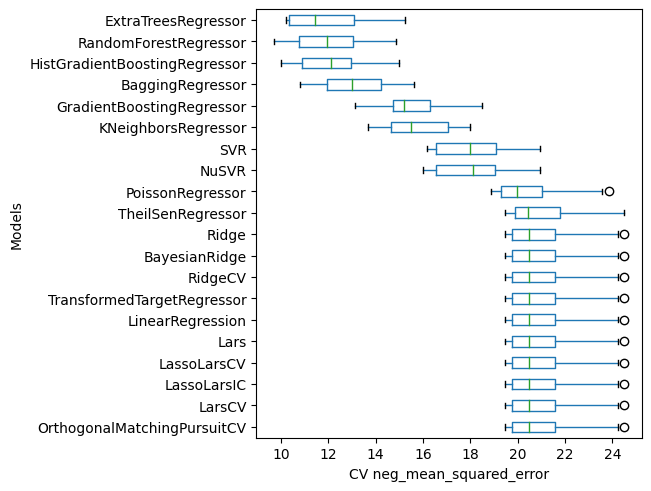
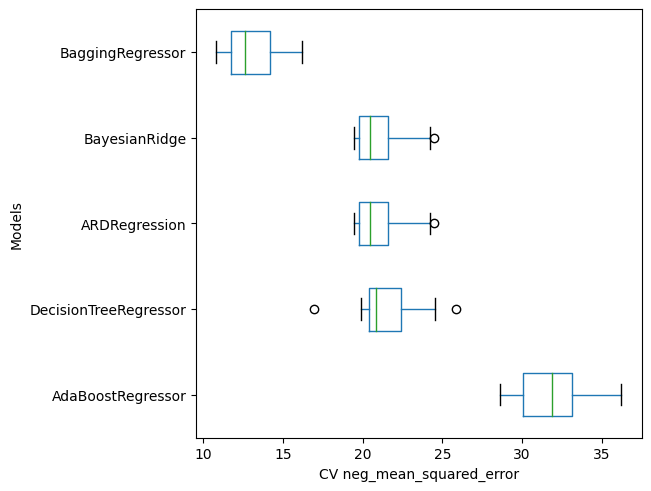
Progress 5:50p 11/10/22

diff --git a/AutoML/ScikitLearn/Sim_v5/v5_utils.py b/AutoML/ScikitLearn/Sim_v5/v5_utils.py
@@ -10,32 +10,33 @@ from sklearn import metrics
 from sklearn.utils import all_estimators
 import warnings
 warnings.filterwarnings('ignore')
+from inspect import signature, _empty
 
 def get_all_regs() -> list:
     """
     This function imports all sklearn regression estimators. The function will filter all out all regressors
-    that perform poorly or take additional parameters. It will return a list of all
-    viable regressor classes and a list of the names of all the viable regressor classes. 
-    
+    that take additional parameters. It will return a list of all viable regressor classes and a list of the 
+    names of all the viable regressor classes. 
     """
     estimators = all_estimators(type_filter='regressor')
-    forbidden_estimators = [
-        "DummyRegressor", "GaussianProcessRegressor", "KernelRidge", 
-        "QuantileRegressor", "SGDRegressor", 
-        "MultiOutputRegressor", "RegressorChain",
-        "StackingRegressor", "VotingRegressor"
-        ]
     all_regs = []
     all_reg_names = []
+
     for name, RegressorClass in estimators:
-        if name not in forbidden_estimators:
-                print('Appending', name)
-                reg = RegressorClass()
-                all_regs.append(reg)
-                all_reg_names.append(name)
+        params = [val[1] for val in signature(RegressorClass).parameters.items()]
+        all_optional = True
+        for param in params:
+            if param.default == _empty:
+                all_optional = False
+        if all_optional:
+            print('Appending', name)
+            reg = RegressorClass()
+            all_regs.append(reg)
+            all_reg_names.append(name)
         else:
             print(f"Skipping {name}")
     return all_regs, all_reg_names
+
 
 def load_data(datapath) -> pd.DataFrame:
     """
